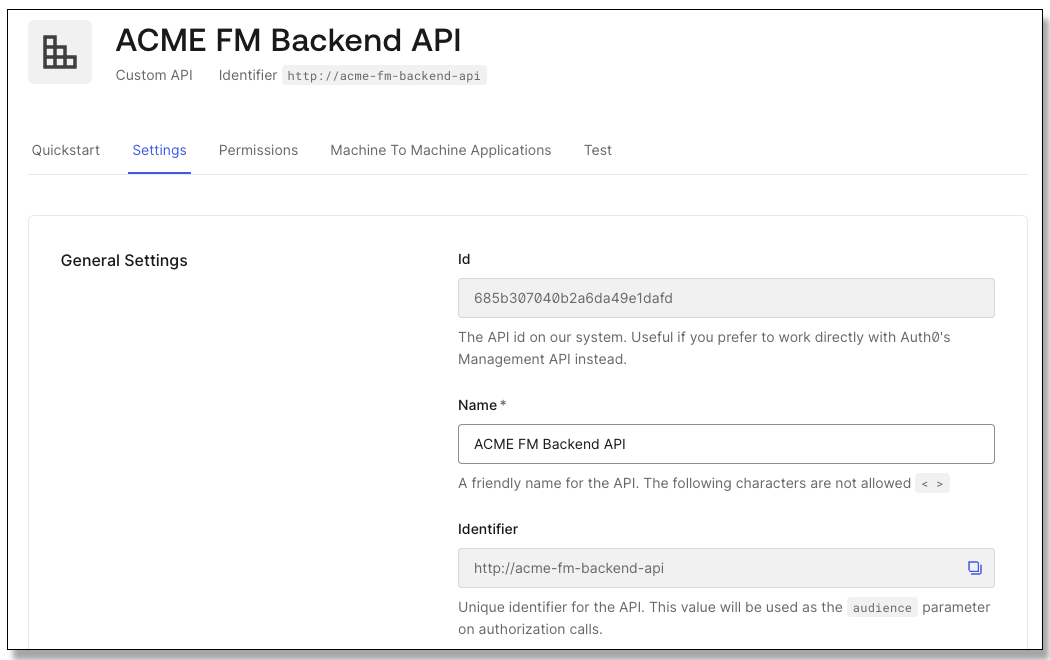
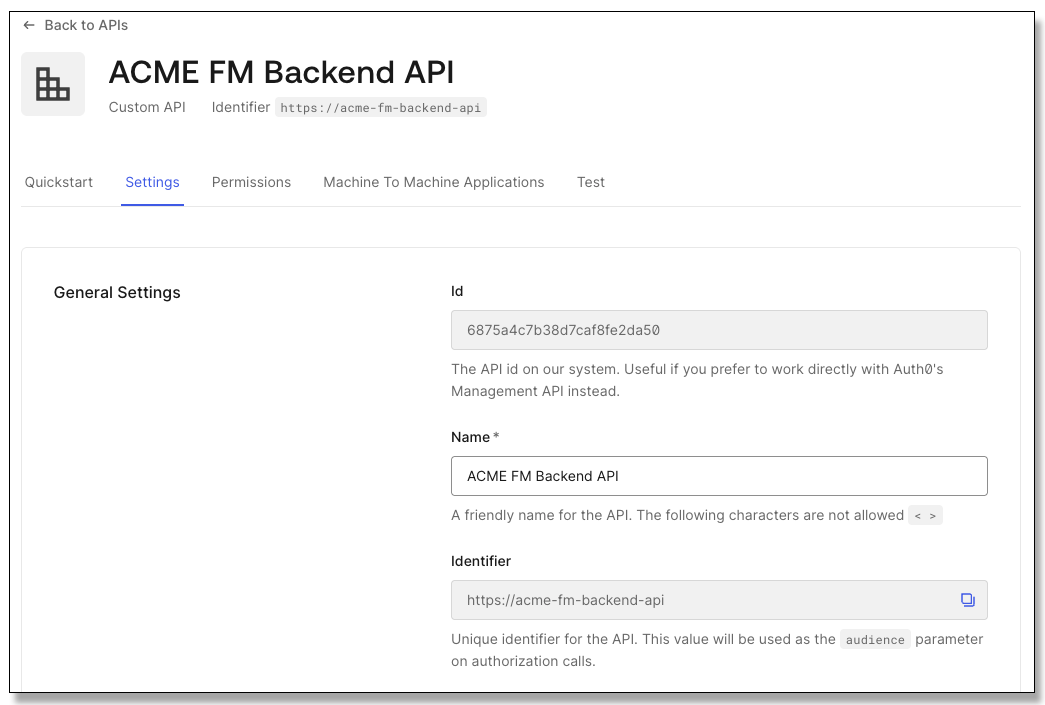
Update module 2

diff --git a/module02-instructions.md b/module02-instructions.md
@@ -68,7 +68,7 @@ and click the *+ Add* button:
 
     <div style="text-align: center;"><img src="./.assets/images/auth0-api-create-permission.png" /></div>
 
-1. Fill in a second permission as *read:reports* and a description of *Read expense reports*, and
+1. Fill in a second permission as *read:reports* and a description of *Read user expense data*, and
 click the *+ Add* button.
 
 1. NOTE: When you look under *Applications &rarr; Applications* some Auth0 tenants may automatically
@@ -148,9 +148,9 @@ It is possible to type and select multiple users in this field.
 
 1. Close the .env file to keep it from being confused with the .env file opened in the next step.    
 
-1. In the VS Code Explorer panel find the API folder and right-click on *.env*.
+1. In the VS Code Explorer panel find the "Module 02/API" folder and right-click on *.env*.
 Choose the *Open to the Side* option.
-Notice that the *AUDIENCE, ISSUER, JWKS_URI, PRIVATE_KEY_PATH*, and *CERTIFICATE_PATH* are not set.
+Notice that the *AUDIENCE, ISSUER,* and *JWKS_URI* are not set.
 
 1. In the Auth0 tenant use the sidebar to navigate to *Applications &rarr; Applications* and
 choose the *ACME Financial Management* application.
@@ -161,16 +161,18 @@ choose the *ACME Financial Management* application.
 
 1. In VS Code, in the .env file in the editor, set the *JWKS_URI* to the value copied from the tenant.
 
-1. Set the *ISSUER* to the URL of your Auth0 tenant: *https&#x200B;://\<your domain>.\<your region>.auth0.com*.
-That happens to be the first part of the JWKS_URI value, up to the / in front of the path part of the URL, so you
-can get it from there.
+1. Set the *ISSUER* to the URL of your Auth0 tenant: *https&#x200B;://\<your domain>.\<your region>.auth0.com/*.
+That happens to be the first part of the JWKS_URI value, up to and including
+the / in front of the path part of the URL, so you can get it from there.
+Make sure the trailing slash is present, because the access token *iss* claim will have it and the
+API needs to match what is sent exactly.
 
 1. Set the *AUDIENCE* to the audience we defined in Auth0 for the API:
     ```
     AUDIENCE="https://acme-fm-backend-api"
     ```
 
-1. Set the values to locate the private key and HTTPS certificate files:
+1. Set these environment variables and values as shown in .env to locate the private key and HTTPS certificate files:
     ```
     PRIVATE_KEY_PATH="../../certificates/localhost-cert-key.pem"
     CERTIFICATE_PATH="../../certificates/localhost-cert.pem"
@@ -191,6 +193,8 @@ Right-click on the folder and choose *Open in Integrated Terminal*.
 
 1. In the Explorer panel find the API folder, expand *src*, and double-click *server.js* to open it.
 If you explore this file our focus is on adding authorization; everything else has been provided for you.
+
+1. Close the .env file, it is no longer needed.
 
 1. Open the *Run/Debug* panel from the VS Code toolbar.
 
@@ -299,12 +303,12 @@ and then in the Explorer panel double-click the *Module 02/Acme/.env file to ope
 1. Set the *CLIENT_ID, CLIENT_SECRET,* and *ISSUER_BASE_URL* as we did in Module 01.
 Hint: go find the .env file from Module01 and copy the three values.
 
-1. Set the BACKEND_AUDIENCE to the audience we defined for the API: "*http&#x200B;://acme-fm-backend-api*".
+1. Set the BACKEND_AUDIENCE to the audience we defined for the API: "*https&#x200B;://acme-fm-backend-api*".
 
 1. Set the BACKEND_URL to the local URL the API will listen on: "https&#x200B;://localhost:38443".
 The application is a web application, so the local URL from the application to the API is on the same computer: localhost.
 
-1. Save the file.
+1. Save and close the .env file.
 
 1. In the Explorer panel find the *Module 02/Acme/src/app.js* file and double-click to open it.
 Hint: if it opens in the left editor panel instead of the right panel, click the tab and drag it to the right panel.
@@ -325,65 +329,50 @@ to get the ID token properly:
         scope: 'openid profile email read:totals read:reports',
     ```
 
-1. NOTE: the application already has a try...catch for the API call in the endpoint for the home page.
-You do not have to add this, but we will explain it; fetch is outside the class scope:
+1. Locate the endpoint for the home landing page, and the declaration of the *config* object:
     ```js
     app.get("/", async (req, res) => {
         let locals = { user: req.oidc && req.oidc.user, total: null, count: null }
         if (locals.user) {
             try {
-                const apiUrl = `${process.env.BACKEND_URL}/${locals.user.sub}/totals`
+                const apiUrl = `${process.env.BACKEND_URL}/backend/${locals.user.sub}/totals`
                 const config = {
                     headers: {
                         'Content-Type': 'application/json',
                         'Accept': 'application/json',
                     }
-                }
-                const response = await fetch(apiUrl, config)
-                if (response.ok) {
-                    locals = { ...locals, ...await response.json()}
-                }
-            }
-            catch (error) {
-            }
-        }
-        res.render("home", locals)
-    })
+                ...
     ```
-    In the previous iteration of the application the data was embedded, and the calculation of *total* and *count* was
-    passed to the *pug* page template.
-    Now we will use *fetch* to go get the data from the API.
-    If the request is OK the data is passed to *pug*, otherwise the *catch* eats any error and null data is passed to *pug*,
-    which causes the page to report the internal error.
+    The setup for the fetch with the HTTP headers and URL has been provided.
 
-    Pay attention to the fifth line: *locals* has been initialized with the user object from the request; this is an object
-    that the Auth0 middleware inserts into the request for an authenticated user.
-    That "sub" claim from that object is being used as the identification for the user to the API.
-    You may say to yourself: "but that value is already in the access token!".
-    And you would be correct, but using it as part of the REST request is a double check for the API (it must be the
-    same user ID in the request and in the token).
-
-    The Auth0 middleware also puts the access token in the "OIDC" property of the request object; here we go into it to get the access
-    token that was issued when the grant request for the backend API was made.
-    Note the middleware provides an object named *accessToken* containing the expiration date, etc.
-    that itself has the real access token as the *access_token* property.
-
-1. Well, we were not completely truthful!
-In order to make the API call you have to pass the access token, that is the whole point of the exercise.
-Locate the middleware registration that beings with *app.get("/", async (req, res) => {*, the one we were just looking at above.
-
-1. To send the bearer token add this line to the *headers* in the configuration we were just looking at for
-the call to fetch (below 'Content-Type' and 'Accept'):
-
+1. To send the bearer token add this line to the *headers* in the *config* we just located, right after
+    the 'Accept' header:
     ```js
     'Authorization': `Bearer ${req.oidc.accessToken.access_token}`
     ```
 
     Note the grave accents (`) around the JavaScript template literal (the value); they are not single-quotation marks!
 
-1. Locate the registration for the /expenses endpoint: *app.get("/expenses", requiresAuth(), async (req, res, next) => {*.
-Add the same authorization header we just did in the previous step to the headers in this endpoint as well.
+1. Locate the registration for the /expenses endpoint:
+    ```js
+    app.get("/expenses", requiresAuth(), async (req, res, next) => {
+    let expenses = []
+    try {
+        const apiUrl = `${process.env.BACKEND_URL}/expenses/${req.oidc.user.sub}/reports`
+        const config = {
+            headers: {
+                'Content-Type': 'application/json',
+                'Accept': 'application/json',
+            }
+            ...
+    ```
 
+1. As we did for the landing page, add the bearer to the *headers* in the *config* we just located, right after
+    the 'Accept' header:
+    ```js
+    'Authorization': `Bearer ${req.oidc.accessToken.access_token}`
+    ```
+    
 1. In the Run/Debug panel make sure *Launch Module 2: ACME FM* is selected as the launch configuration and launch the program.
 
 1. Sign on to the app with the user from before; this should be the user that has the role with the API permissions.
